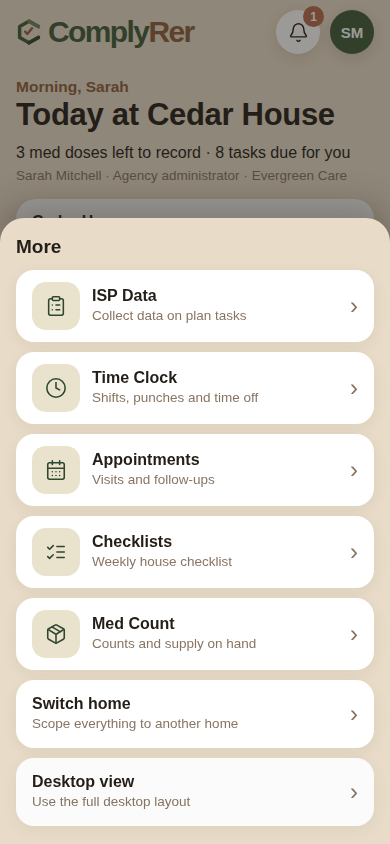
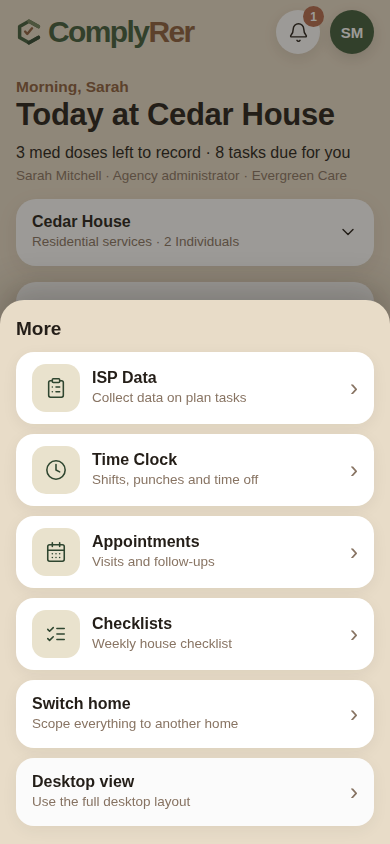
Mobile: remove the standalone Med Count tile — the count lives under Medications

diff --git a/tests/mobile-shell.spec.ts b/tests/mobile-shell.spec.ts
@@ -48,7 +48,6 @@ test("mobile shell: home picker, role tiles, and the MAR pass flow", async ({
     "My Tasks",
     "Individuals",
     "Checklists",
-    "Med Count",
   ]) {
     await expect(
       page.getByRole("button", { name: new RegExp(label) }).first(),
@@ -57,6 +56,11 @@ test("mobile shell: home picker, role tiles, and the MAR pass flow", async ({
   // No separate Shift Notes tile: a shift note is an ISP data entry, so
   // ISP Data is the single door for the home's notes.
   await expect(page.getByRole("button", { name: /Shift Notes/ })).toHaveCount(
+    0,
+  );
+  // No separate Med Count tile either: the count lives under Medications,
+  // on each medication's own row in the MAR.
+  await expect(page.getByRole("button", { name: /Med Count/ })).toHaveCount(
     0,
   );
   await expect(page.getByRole("button", { name: /Messages/ })).toHaveCount(0);
@@ -658,7 +662,7 @@ test("mobile home: donut math, up next, and the bottom navigation", async ({
   await navBar.getByRole("button", { name: "More", exact: true }).click();
   const sheet = page.getByRole("dialog", { name: "More" });
   await expect(sheet).toBeVisible();
-  await expect(sheet.getByRole("button", { name: /Med Count/ })).toBeVisible();
+  await expect(sheet.getByRole("button", { name: /Med Count/ })).toHaveCount(0);
   await expect(
     sheet.getByRole("button", { name: /Switch home/ }),
   ).toBeVisible();

diff --git a/src/features/mobile/tiles.ts b/src/features/mobile/tiles.ts
@@ -11,6 +11,10 @@
  * model a shift note IS an ISP data entry (the ISP flow saves through
  * saveShiftNote), so ISP Data is the single door for both reading and
  * writing a home's shift notes on mobile.
+ *
+ * There is likewise no separate "Med Count" tile: the count belongs
+ * under Medications — every medication row in the MAR carries its own
+ * supply countdown, and managers reset it there when a refill comes in.
  */
 import { canSeeMeds } from "../../data/chart";
 import { canSeeShiftNotes } from "../../data/permissions";
@@ -22,8 +26,7 @@ export type MobileTileId =
   | "myTasks"
   | "individuals"
   | "appointments"
-  | "checklists"
-  | "medCount";
+  | "checklists";
 
 export interface MobileTile {
   id: MobileTileId;
@@ -85,12 +88,6 @@ const TILE_DEFS: {
     label: "Checklists",
     hint: "Weekly house checklist",
     visible: (ctx) => ctx.canPage("Weekly checklist"),
-  },
-  {
-    id: "medCount",
-    label: "Med Count",
-    hint: "Counts and supply on hand",
-    visible: (ctx) => ctx.canPage("Supply forecast"),
   },
 ];
 

diff --git a/src/features/mobile/tiles.test.ts b/src/features/mobile/tiles.test.ts
@@ -52,7 +52,8 @@ test("an auditor gets read surfaces but no time clock without hub access", () =>
   assert.ok(!(tiles as string[]).includes("shiftNotes"));
   assert.ok(tiles.includes("ispData"));
   assert.ok(tiles.includes("appointments"));
-  assert.ok(tiles.includes("medCount"));
+  // No separate Med Count tile: the count lives under Medications.
+  assert.ok(!tiles.includes("medCount" as never));
   assert.ok(!tiles.includes("timeClock"));
 });
 
@@ -66,7 +67,7 @@ test("page-gated tiles follow the desktop page gate exactly", () => {
   });
   assert.ok(ids(withPages).includes("appointments"));
   assert.ok(ids(withPages).includes("checklists"));
-  assert.ok(ids(withPages).includes("medCount"));
+  assert.ok(!ids(withPages).includes("medCount" as never));
 });
 
 test("tile order is daily-driver order, medications first", () => {
@@ -88,7 +89,6 @@ test("tile order is daily-driver order, medications first", () => {
       "individuals",
       "appointments",
       "checklists",
-      "medCount",
     ],
   );
   for (const tile of tiles) {

diff --git a/tests/mobile-responsive.spec.ts b/tests/mobile-responsive.spec.ts
@@ -127,15 +127,6 @@ test("deep-linked pages lay out at phone width", async ({ page }) => {
   });
   await backHome(page);
 
-  // Supply forecast (Med Count tile).
-  await openTile(page, /Med Count/);
-  await expectNoOverflow(page, "supply forecast");
-  await page.screenshot({
-    path: shot("after-supply-forecast.png"),
-    fullPage: true,
-  });
-  await backHome(page);
-
   // Individuals tile -> person -> desktop chart; the shift-note score
   // table must fit the screen (it was clipped at ~1280px before the pass).
   await page.getByRole("button", { name: /Individuals/ }).first().click();

diff --git a/src/features/mobile/MobileShell.tsx b/src/features/mobile/MobileShell.tsx
@@ -9,7 +9,6 @@ import {
   ListTodo,
   LogOut,
   Monitor,
-  Package,
   Pill,
   Search,
   Users,
@@ -54,7 +53,6 @@ const TILE_ICONS: Record<MobileTileId, LucideIcon> = {
   individuals: Users,
   appointments: CalendarDays,
   checklists: ListChecks,
-  medCount: Package,
 };
 
 const VIEW_TITLES: Partial<Record<ShellView, string>> = {
@@ -259,9 +257,6 @@ export default function MobileShell({
         break;
       case "checklists":
         nav.openPage("Weekly checklist");
-        break;
-      case "medCount":
-        nav.openPage("Supply forecast");
         break;
     }
   };

diff --git a/src/features/mobile/bottomNav.test.ts b/src/features/mobile/bottomNav.test.ts
@@ -49,6 +49,6 @@ test("the More sheet carries the tiles the pill does not", () => {
   );
   assert.deepEqual(
     moreSheetTiles(tiles).map((tile) => tile.id),
-    ["ispData", "timeClock", "appointments", "checklists", "medCount"],
+    ["ispData", "timeClock", "appointments", "checklists"],
   );
 });
